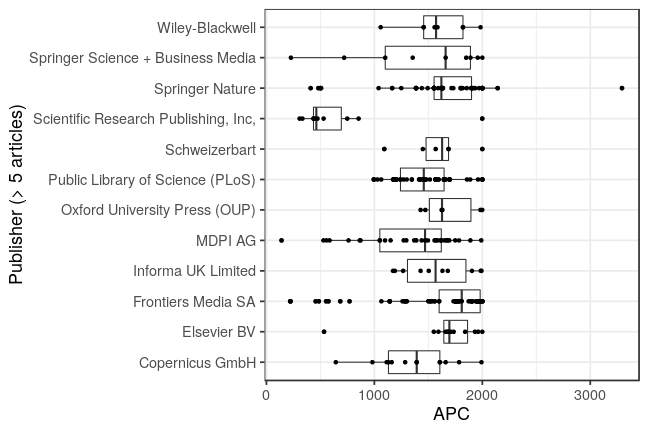
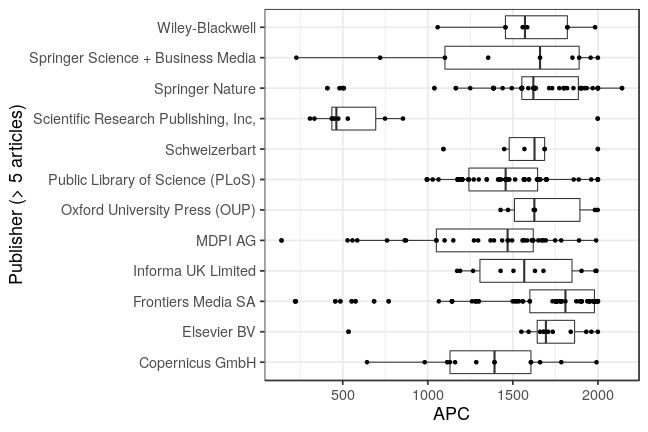
update: fu berlin apc data 2018

diff --git a/_posts/2019-03-27-fuberlin.md b/_posts/2019-03-27-fuberlin.md
@@ -21,13 +21,13 @@ Contact person is [Birgit Schlegel](mailto:birgit.schlegel@fu-berlin.de).
 
 
 
-The new data set covers publication fees for 117 articles. Total expenditure amounts to 193 939€ and the average fee is 1 658€.
+The new data set covers publication fees for 117 articles. Total expenditure amounts to 192 418€ and the average fee is 1 645€.
 
 
 |                                                       | Articles| Fees paid in EURO| Mean Fee paid|
 |:------------------------------------------------------|--------:|-----------------:|-------------:|
 |Frontiers Media SA                                     |       35|             69093|          1974|
-|Springer Nature                                        |       19|             29724|          1564|
+|Springer Nature                                        |       19|             28203|          1484|
 |MDPI AG                                                |       18|             22927|          1274|
 |Public Library of Science (PLoS)                       |       17|             27244|          1603|
 |Informa UK Limited                                     |        6|              9901|          1650|
